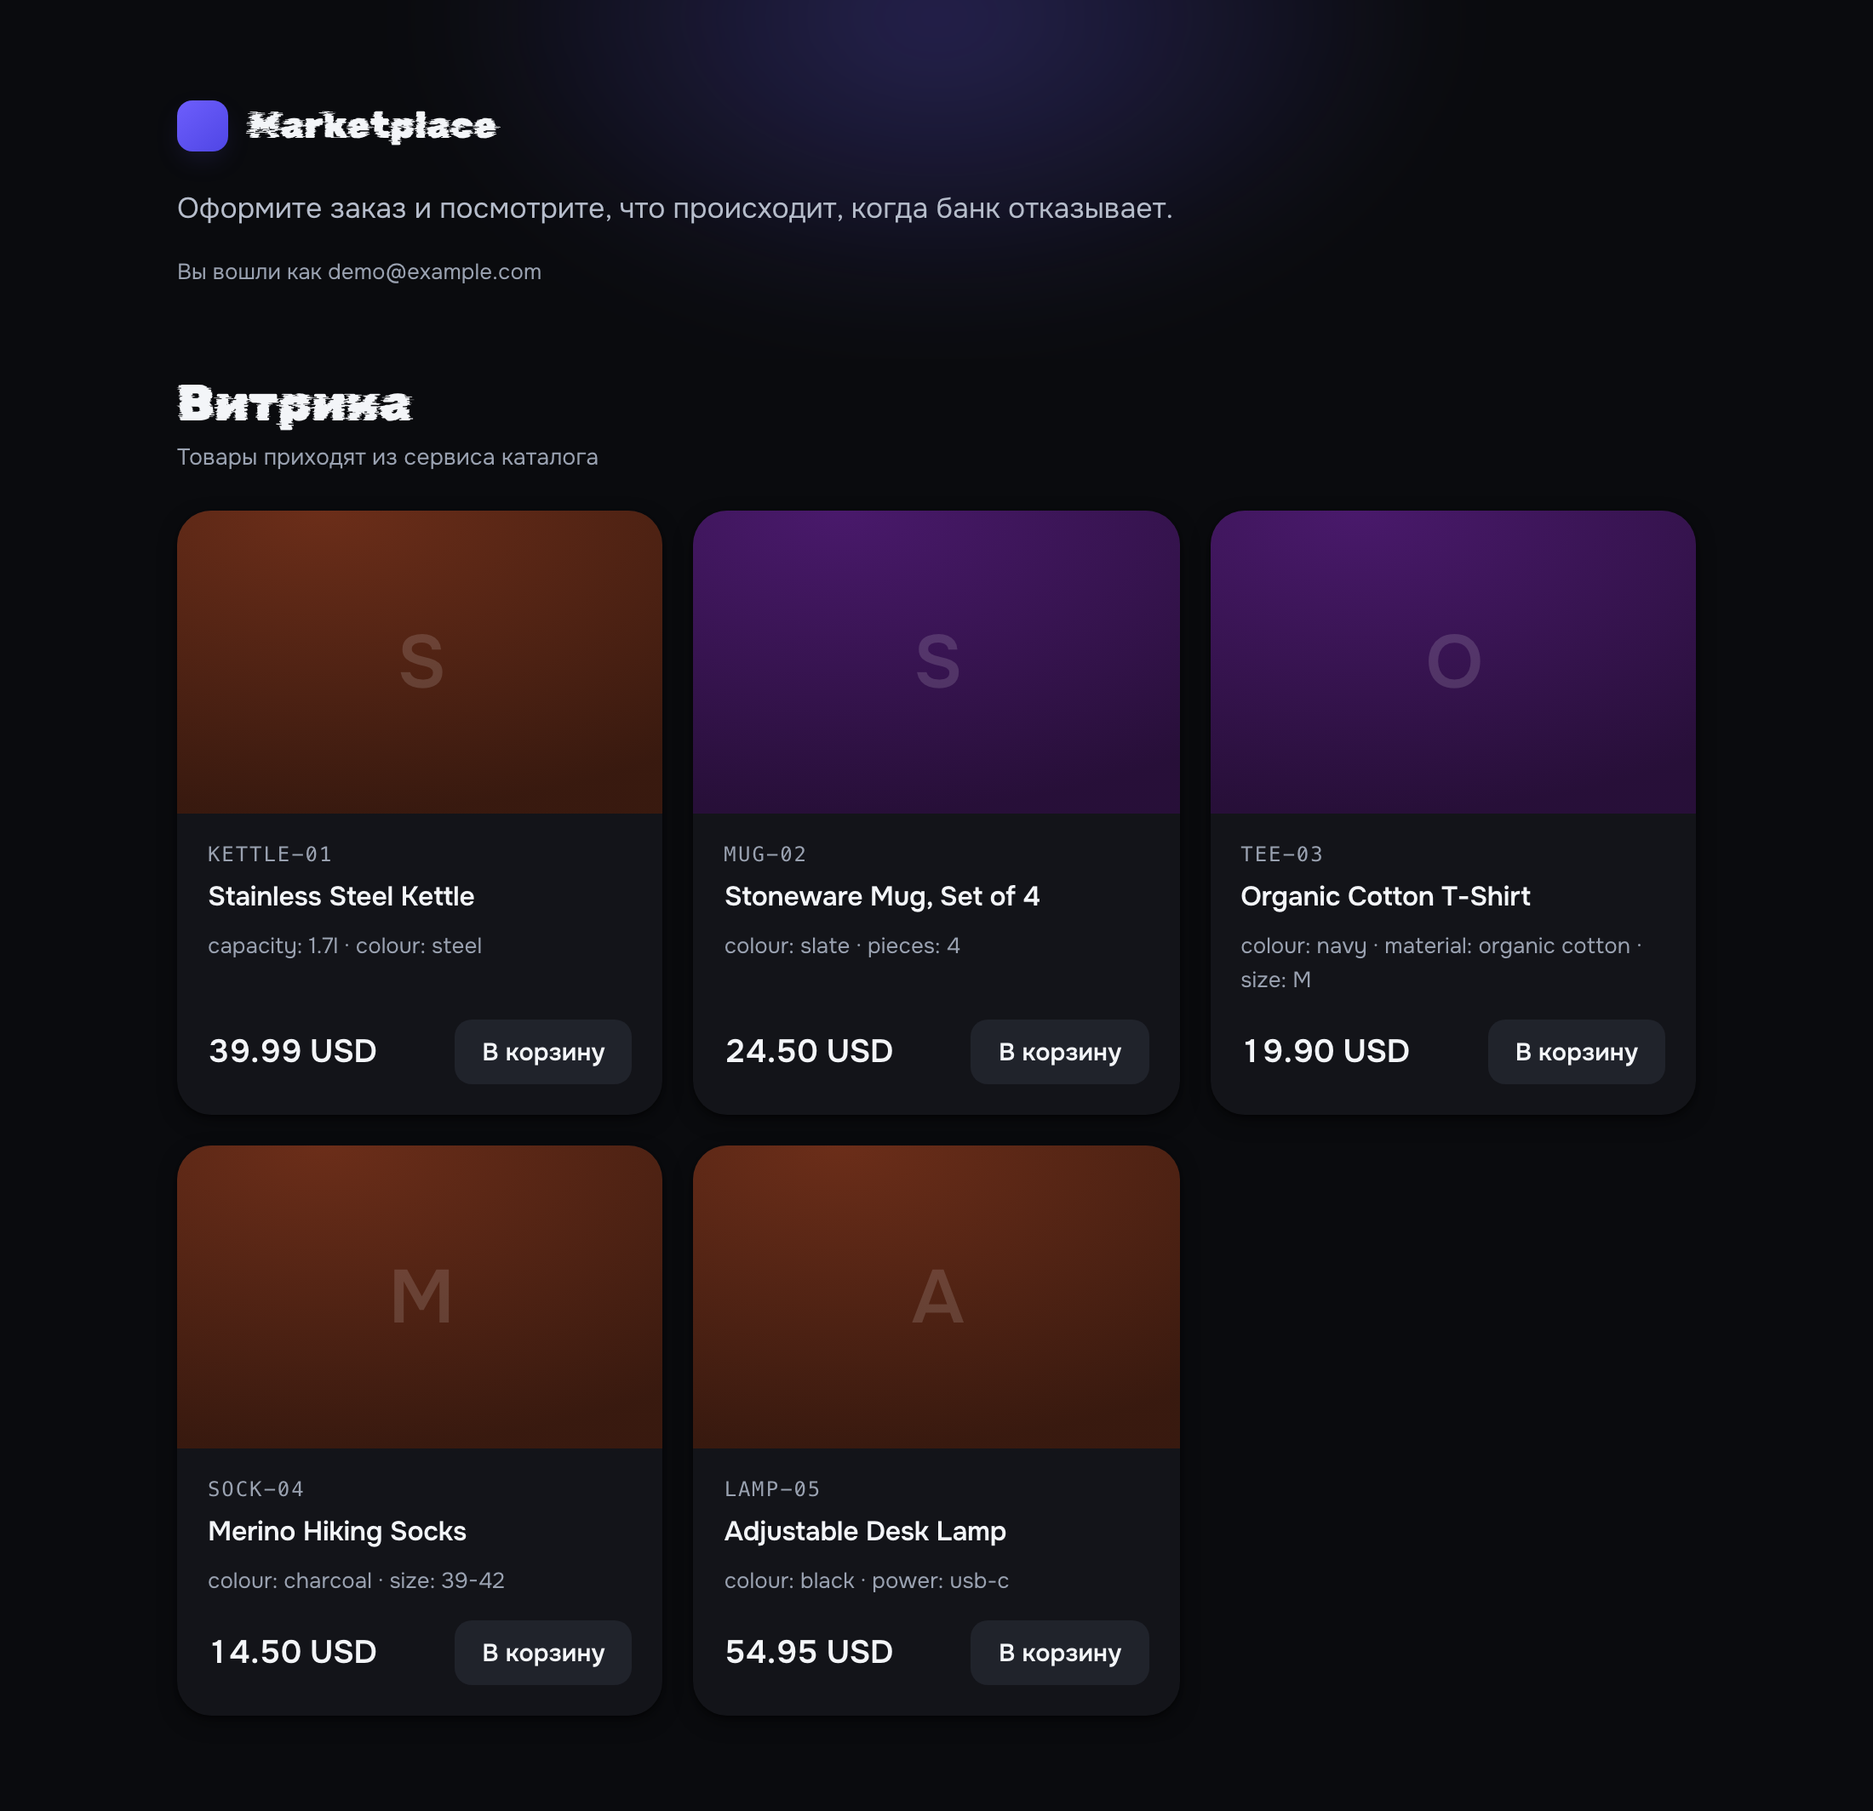
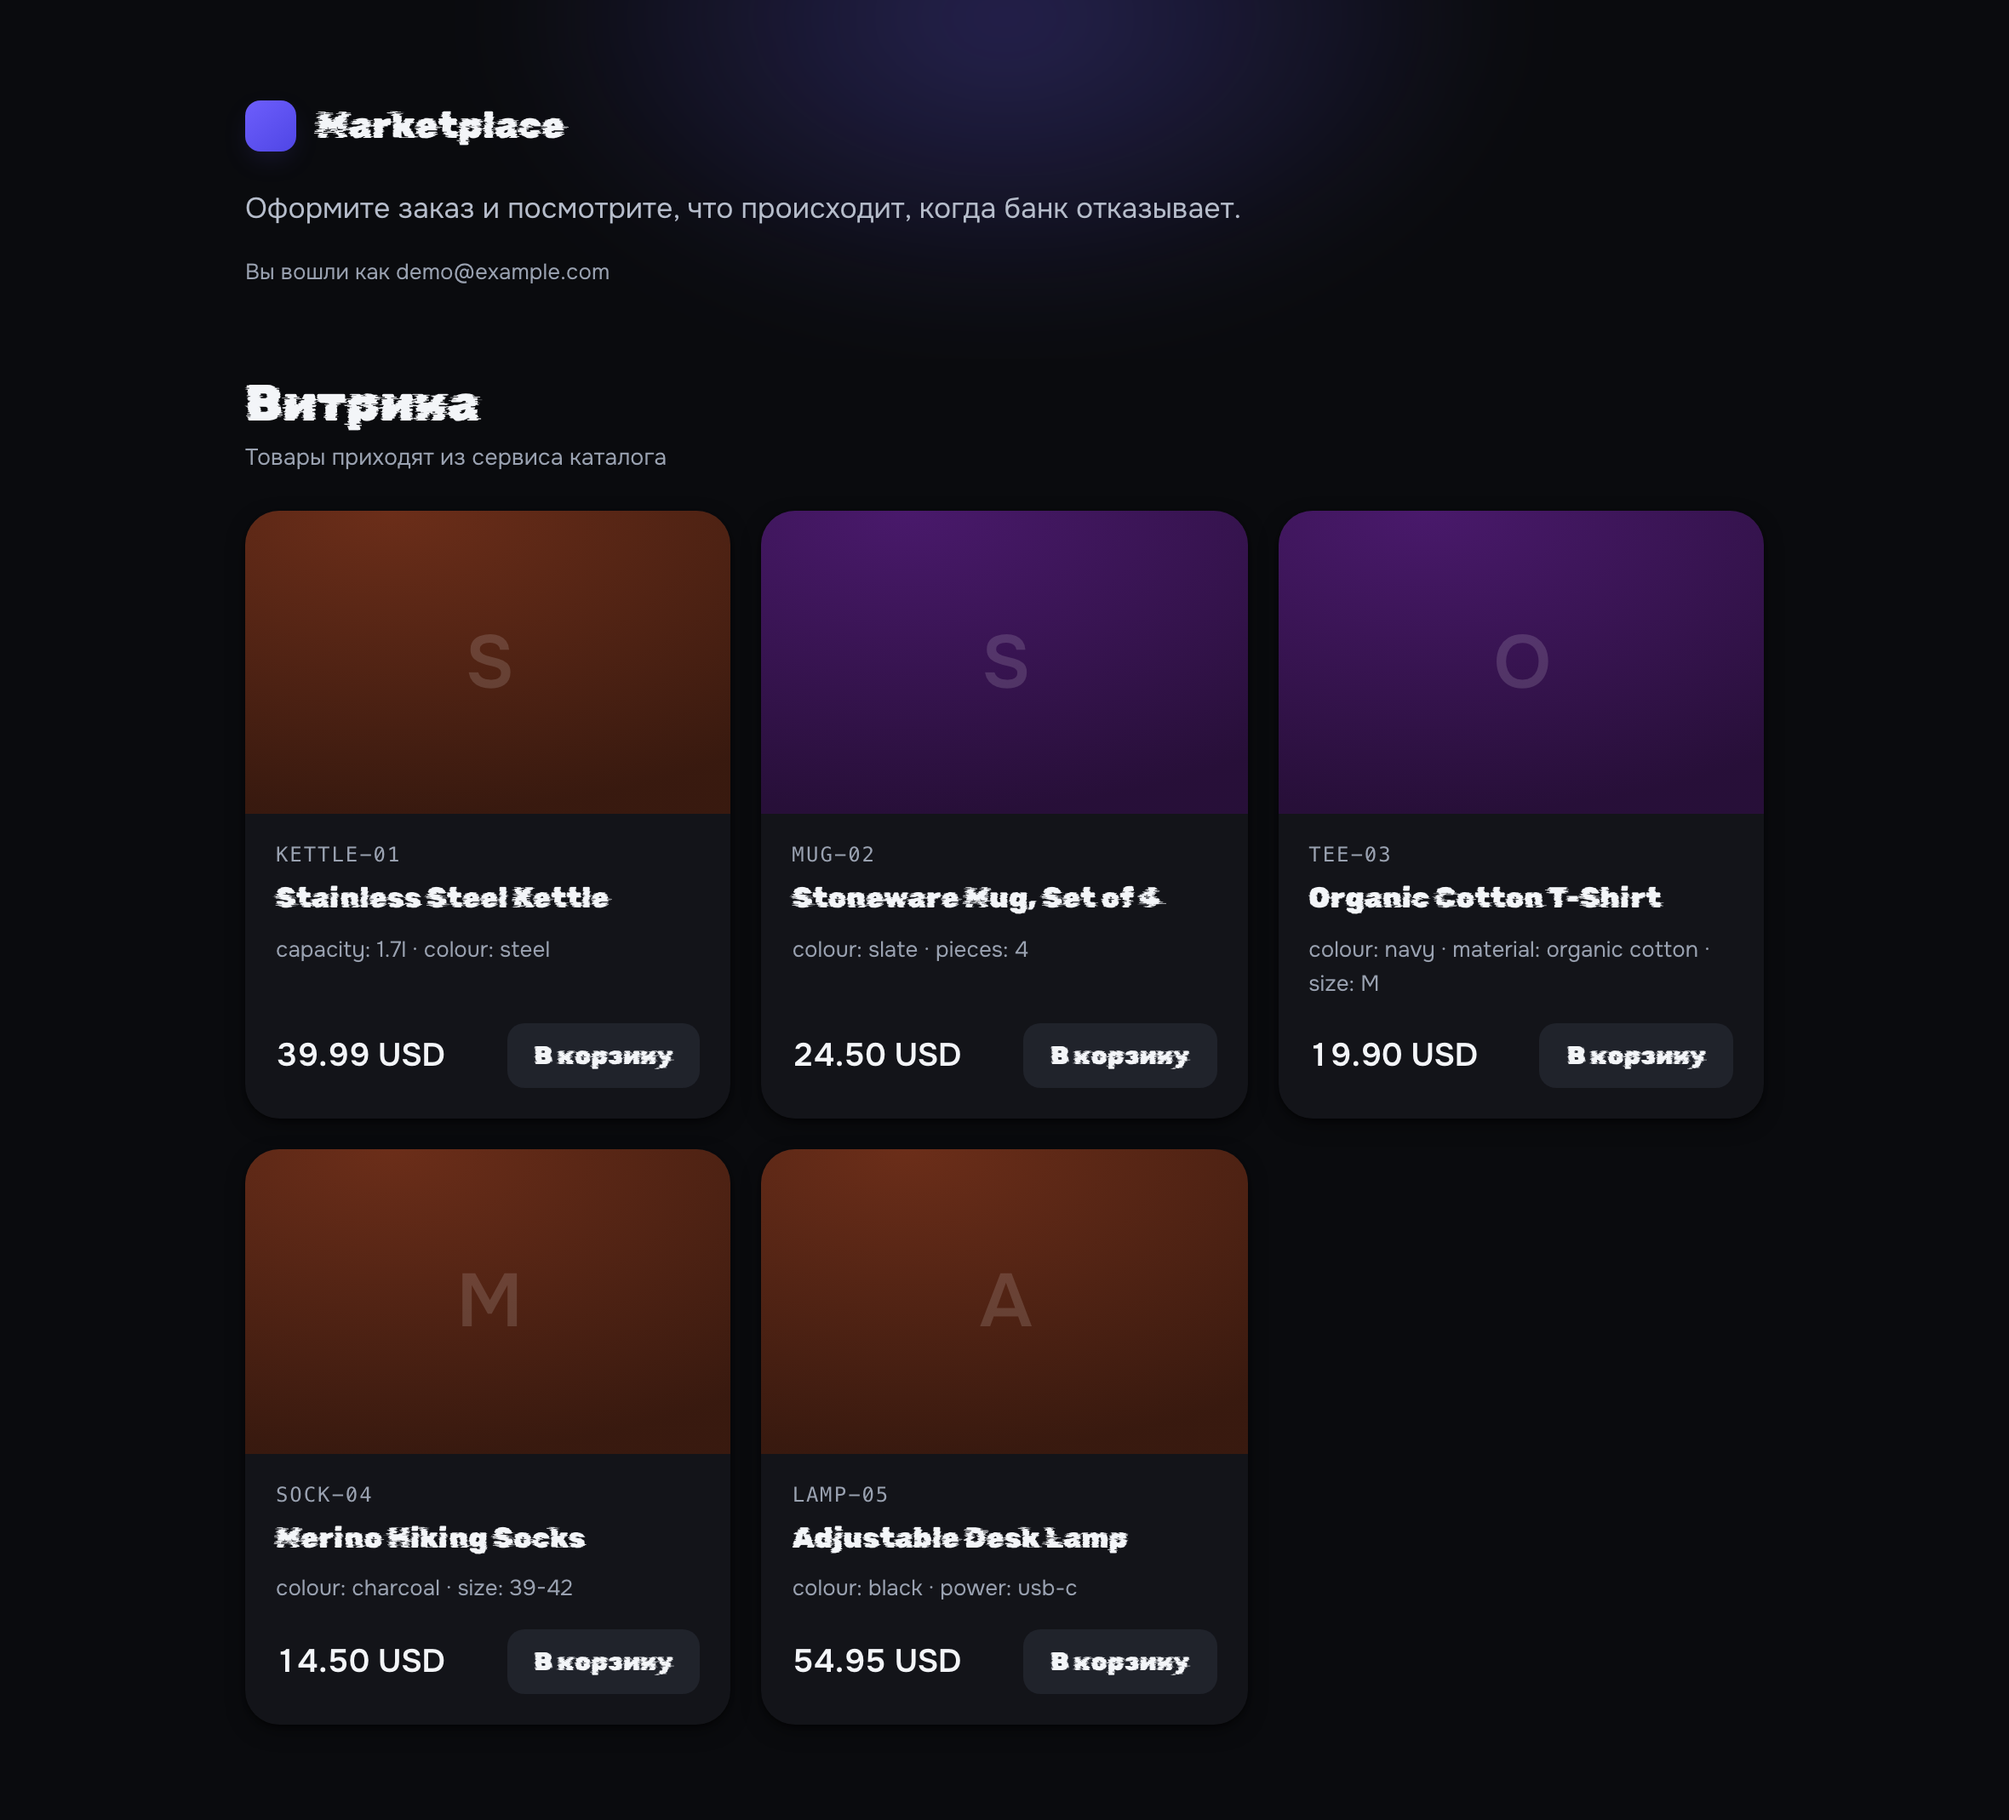
Set product names, cart lines and buttons in Rubik Glitch
The display face now carries the product name, the add-to-cart button, the
cart line name, and the checkout CTA — the four places a shopper actually
reads. Prices stay in Onest: the glitch face's distortion costs more than it
buys on figures, and a misread price is not a styling problem.

Every use pins font-weight: 400, without exception. Rubik Glitch ships a
single weight, so asking for anything heavier makes the browser synthesise a
bold by smearing the outlines, which on a face that is already distorted turns
the letters into mush.

The glyph coverage was measured rather than assumed: the face has Latin,
Cyrillic, digits, the middot and the numero sign, and lacks the multiplication
x, the right arrow and the rouble sign, which fall back to a system font. The
fallbacks render real glyphs, and nothing in the UI shows a notdef box; the
API sends currency as a code, so the rouble sign never appears anyway.

Regenerated design-shots/ against the new face.

diff --git a/services/gateway/internal/transport/httpapi/static/styles.css b/services/gateway/internal/transport/httpapi/static/styles.css
@@ -238,12 +238,16 @@ h3 {
   color: var(--text-3);
 }
 
+/* The product name, in the display face. */
 .card h4 {
   margin: 0;
-  font-size: 16px;
-  font-weight: 600;
-  line-height: 1.35;
-  letter-spacing: -0.01em;
+  font-family: var(--font-display);
+  /* Always 400: Rubik Glitch ships a single weight, and a heavier request makes
+     the browser fake the bold by smearing the outlines. */
+  font-weight: 400;
+  font-size: 17px;
+  line-height: 1.4;
+  letter-spacing: 0;
 }
 
 .attrs {
@@ -271,9 +275,9 @@ h3 {
 /* ---------------------------------------------------------------- button */
 
 .btn {
-  font-family: var(--font-text);
-  font-size: 14.5px;
-  font-weight: 600;
+  font-family: var(--font-display);
+  font-weight: 400;
+  font-size: 15px;
   color: var(--text);
   background: var(--surface-3);
   border: none;
@@ -293,7 +297,10 @@ h3 {
 }
 .btn-primary:hover { background: var(--accent-soft); }
 
-.btn-wide { width: 100%; padding: 13px 20px; font-size: 15.5px; }
+/* The checkout CTA, and the only wide button. A step larger than the rest: at
+   the glitch face's distortion, the default size costs more legibility than it
+   buys character on the button that has to be unmissable. */
+.btn-wide { width: 100%; padding: 13px 20px; font-size: 17px; }
 
 .link {
   color: var(--accent-soft);
@@ -317,7 +324,11 @@ h3 {
 .lines li:first-child { padding-top: 0; }
 .lines li:last-child { border-bottom: none; padding-bottom: 0; }
 
-.line-name { font-weight: 550; }
+.line-name {
+  font-family: var(--font-display);
+  font-weight: 400;
+  font-size: 16px;
+}
 .line-name .sku { display: block; margin-top: 3px; }
 
 .qty {
@@ -347,6 +358,7 @@ h3 {
 }
 
 .remove {
+  font-family: var(--font-text);
   background: none; border: none; cursor: pointer;
   color: var(--text-3); font: inherit; font-size: 13px;
   padding: 4px 6px; border-radius: 6px;
